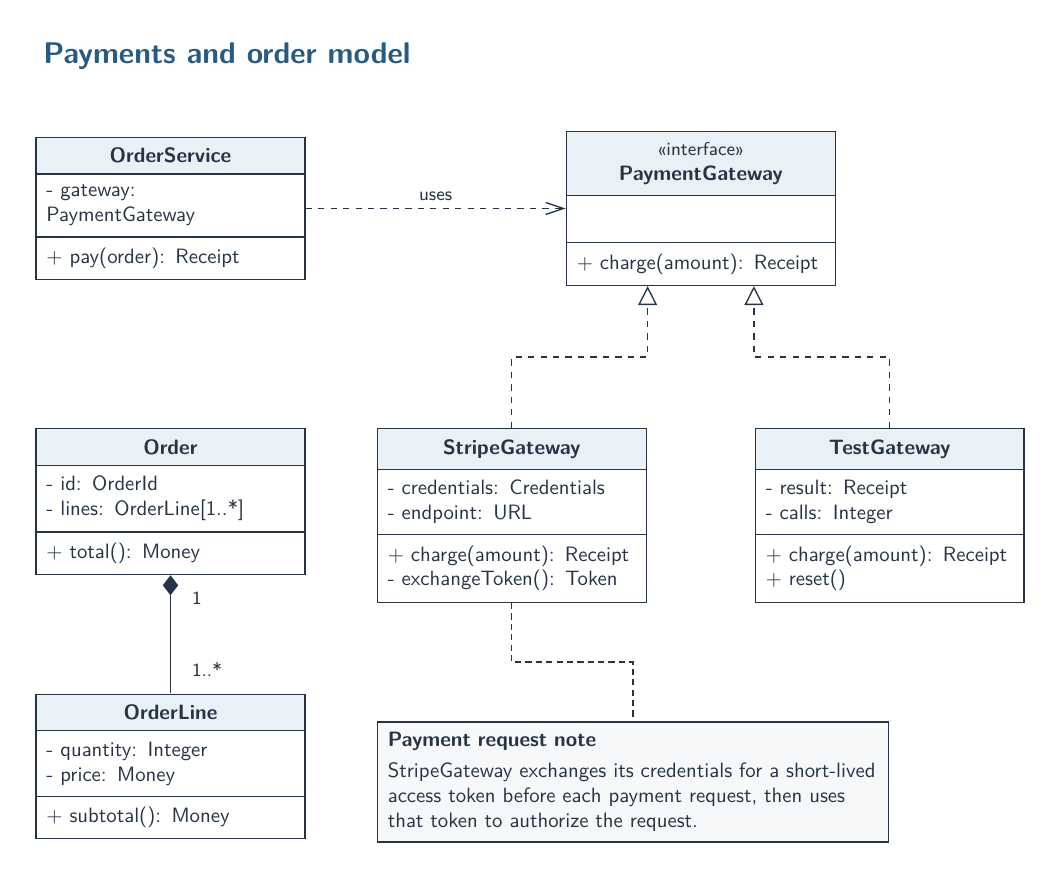
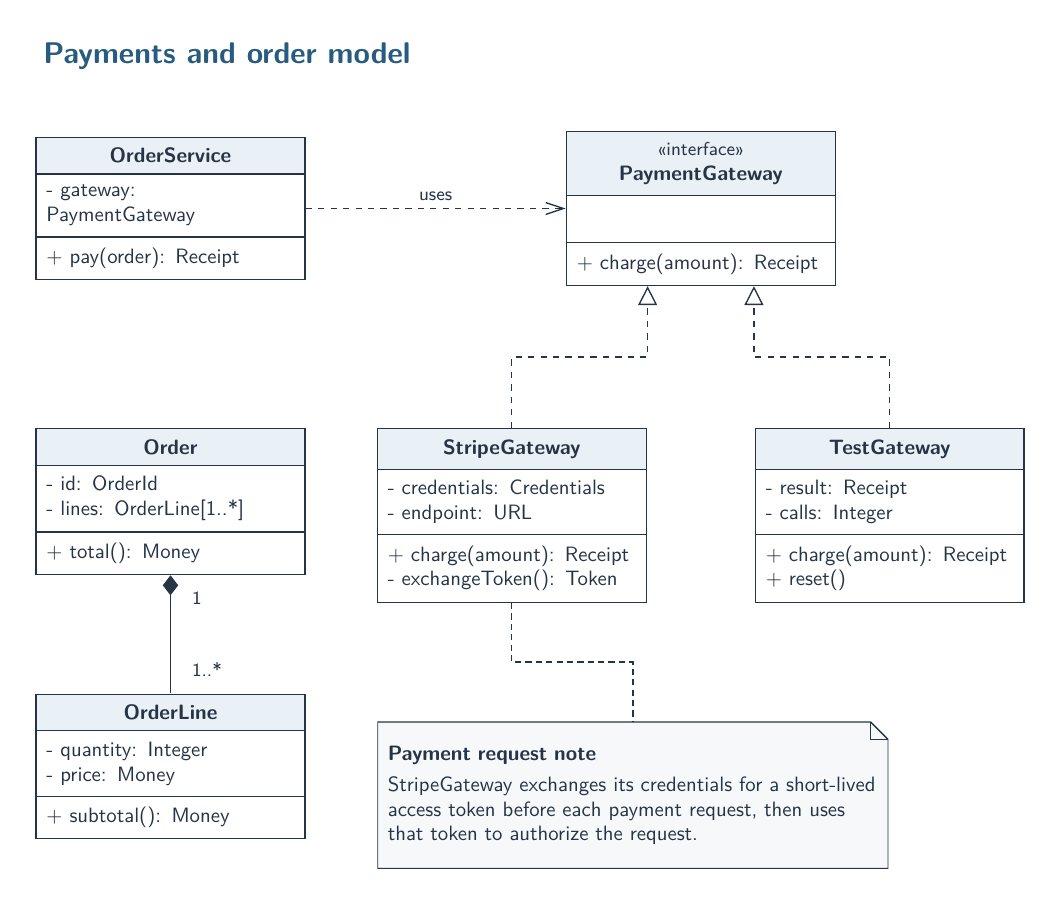
Add Vault writing style and common UML diagram guidance

diff --git a/skills/tikz-diagrams/assets/uml-class-template.tex b/skills/tikz-diagrams/assets/uml-class-template.tex
@@ -2,7 +2,7 @@
 \usepackage[T1]{fontenc}
 \usepackage{lmodern}
 \usepackage{tikz}
-\usetikzlibrary{arrows.meta,positioning,calc,shapes.multipart}
+\usetikzlibrary{arrows.meta,positioning,calc,shapes.multipart,shapes.geometric,fit,backgrounds}
 
 \definecolor{umlInk}{HTML}{263445}
 \definecolor{umlAccent}{HTML}{285B80}
@@ -19,7 +19,20 @@
     rectangle split part align={center,left,left},
     text width=42mm,align=center},
   uml/component/.style={uml/base,rectangle,fill=umlHeader,text width=42mm,align=center},
-  uml/note/.style={uml/base,rectangle,fill=umlNote,text width=83mm,align=left},
+  uml/note/.style={uml/base,rectangle,draw=none,fill=none,
+    text width=83mm,align=left,inner ysep=4mm,
+    path picture={
+      \path[draw=umlInk,fill=umlNote,line width=0.65pt]
+        (path picture bounding box.south west) --
+        (path picture bounding box.north west) --
+        ([xshift=-3mm]path picture bounding box.north east) --
+        ([yshift=-3mm]path picture bounding box.north east) --
+        (path picture bounding box.south east) -- cycle;
+      \draw[draw=umlInk,line width=0.65pt]
+        ([xshift=-3mm]path picture bounding box.north east) --
+        ([xshift=-3mm,yshift=-3mm]path picture bounding box.north east) --
+        ([yshift=-3mm]path picture bounding box.north east);
+    }},
   uml/label/.style={font=\sffamily\footnotesize,text=umlInk,
     inner sep=1.5pt,fill=white},
   uml/edge/.style={draw=umlInk,line width=0.65pt},
@@ -33,13 +46,54 @@
   uml/lifeline/.style={uml/edge,densely dashed},
   uml/call/.style={uml/edge,-{Triangle[length=3mm,width=2.2mm]}},
   uml/async/.style={uml/edge,-{Straight Barb[length=3mm,width=2mm]}},
-  uml/reply/.style={uml/edge,dashed,-{Straight Barb[length=3mm,width=2mm]}}
+  uml/reply/.style={uml/edge,dashed,-{Straight Barb[length=3mm,width=2mm]}},
+  uml/artifact/.style={uml/base,rectangle,fill=white,text width=32mm,align=center},
+  uml/frame/.style={uml/base,rectangle,fill=none,inner sep=7mm},
+  uml/port/.style={uml/base,rectangle,fill=white,minimum size=3mm,inner sep=0pt},
+  uml/interface/.style={uml/base,circle,fill=white,minimum size=4mm,inner sep=0pt},
+  uml/usecase/.style={uml/base,ellipse,fill=umlHeader,text width=32mm,align=center},
+  uml/action/.style={uml/base,rectangle,rounded corners=2mm,
+    fill=umlHeader,text width=32mm,align=center},
+  uml/state/.style={uml/base,rectangle,rounded corners=2mm,
+    fill=umlHeader,text width=32mm,align=center},
+  uml/decision/.style={uml/base,diamond,fill=white,aspect=1.4,
+    minimum size=8mm,inner sep=1pt},
+  uml/bar/.style={uml/base,rectangle,fill=umlInk,
+    minimum width=25mm,minimum height=1.8mm,inner sep=0pt},
+  uml/initial/.style={uml/base,circle,fill=umlInk,minimum size=4mm,inner sep=0pt},
+  uml/activity-final/.style={uml/base,circle,fill=white,minimum size=6mm,
+    inner sep=0pt,path picture={
+      \fill[umlInk] (path picture bounding box.center) circle[radius=1.6mm];}},
+  uml/flow-final/.style={uml/base,circle,fill=white,minimum size=6mm,
+    inner sep=0pt,path picture={
+      \draw[draw=umlInk,line width=0.65pt]
+        ([xshift=-1.7mm,yshift=-1.7mm]path picture bounding box.center) --
+        ([xshift=1.7mm,yshift=1.7mm]path picture bounding box.center)
+        ([xshift=-1.7mm,yshift=1.7mm]path picture bounding box.center) --
+        ([xshift=1.7mm,yshift=-1.7mm]path picture bounding box.center);}},
+  uml/lifeline-head/.style={uml/base,rectangle,fill=umlHeader,
+    text width=42mm,align=center},
+  uml/activation/.style={uml/base,rectangle,fill=umlHeader,
+    minimum width=3mm,minimum height=12mm,inner sep=0pt},
+  uml/control-flow/.style={uml/edge,-{Straight Barb[length=3mm,width=2mm]}},
+  uml/object-flow/.style={uml/control-flow},
+  uml/transition/.style={uml/control-flow},
+  pics/uml/actor/.style={code={
+    \draw[uml/edge,fill=white] (0,0.42) circle[radius=1.3mm];
+    \draw[uml/edge] (0,0.29) -- (0,-0.22)
+      (-0.28,0.14) -- (0.28,0.14)
+      (0,-0.22) -- (-0.24,-0.53) (0,-0.22) -- (0.24,-0.53);
+    \coordinate (-north) at (0,0.55);
+    \coordinate (-south) at (0,-0.53);
+    \coordinate (-west) at (-0.3,0);
+    \coordinate (-east) at (0.3,0);
+  }}
 }
 
 \begin{document}
 \begin{tikzpicture}
 \node[uml/class] (gateway) {
-  {\footnotesize\normalfont\sffamily\textless\textless interface\textgreater\textgreater}\\
+  {\footnotesize\normalfont\sffamily\guillemotleft interface\guillemotright}\\
   \textbf{PaymentGateway}
   \nodepart[align=left]{two}\strut
   \nodepart[align=left]{three}

diff --git a/skills/tikz-diagrams/SKILL.md b/skills/tikz-diagrams/SKILL.md
@@ -1,69 +1,55 @@
 ---
 name: tikz-diagrams
-description: Use when creating or editing UML-style or software architecture diagrams with LaTeX/TikZ, especially class, component, and sequence diagrams that need consistent styling, readable labels, and carefully checked spacing and connector routes.
+description: Use when creating or editing LaTeX/TikZ UML diagrams for Markdown documentation, including sequence, activity, state machine, class, component, deployment and use case diagrams, or related software architecture views.
 ---
 
 # TikZ Diagrams
 
-Create clear, consistent diagrams and verify the rendered result. Deliver editable
-TikZ source and a vector PDF when compilation is available. Follow the requested
-diagram type, level of detail, page size, and existing document style.
+Create diagram assets for Markdown: editable TikZ source plus a rendered SVG or PNG for embedding, and a vector PDF when compilation supports it. Preserve the requested diagram type, model, detail and final reading size. A diagram request does not require a prose LaTeX document.
 
-## Start with the meaning
+## Choose the UML view
 
-Identify the entities, relationships, arrow directions, labels, and multiplicities
-the diagram must show. Preserve supplied names and facts. Mark illustrative
-choices or unresolved relationships; do not invent ownership, cardinalities,
-failure policies, or security requirements to fill space.
+Support these seven common views. Choose one that answers the document's question:
 
-Choose formal UML notation when requested. For an informal architecture diagram,
-use the appropriate UML-inspired visual language without claiming full UML compliance.
+| Scenario or question | Diagram |
+|----------------------|---------|
+| Who calls whom, in what order, during one request or interaction? | **Sequence** |
+| What steps, decisions and parallel branches form a workflow? | Activity |
+| How does one entity change state in response to events? | State machine |
+| What types, fields, operations and structural relationships exist? | Class |
+| What subsystems, interfaces and dependencies form the software? | Component |
+| What runs where, across hosts and execution environments? | Deployment |
+| Which actors pursue which goals through the system? | Use case |
 
-## Reuse one visual style
+For an explicit supported type, use it. Otherwise select the best view and briefly state why. Sequence shows exchanges between participants; activity shows the process; state machine shows one entity's lifecycle. Component shows software organisation; deployment shows runtime placement. Use case shows goals, not execution order. Draw one focused view unless the request needs several; ask when the intended question is unclear. For a requested type outside this set, explain the supported scope and ask about a suitable supported view rather than silently substituting.
 
-Start from [the standalone template](assets/uml-class-template.tex) and its
-central `uml/` style block. Replace the example content with the requested model.
-Keep the same typography, palette, stroke widths, padding, and arrow sizes across
-related diagrams. Change shared styles when adapting a theme rather than styling
-every node independently. [The preview](assets/uml-class-preview.png) shows the
-default appearance.
+Consult the [notation table](references/uml-and-layout.md#diagram-types) for the selected view. Use formal UML notation for UML requests; label informal architecture views as informal.
 
-Use aligned rows or columns, consistent box widths, muted fills, and clear dark
-text. The template uses a 10pt body and 9pt labels at natural size. Keep text
-readable at the final embedding size; reflow or simplify the diagram before
-shrinking it. Use shape and line conventions as well as colour to convey meaning.
+Identify supplied entities, relationships, direction, multiplicity, message order, guards and timing. Preserve names and facts. Mark illustrative choices or unresolved relationships; ask when missing semantics affect correctness. Do not infer ownership from pointer types or invent timing, cardinalities or failure policies.
 
-## Lay out boxes, then routes
+## Reuse the canonical theme
 
-1. Set the intended canvas and reading direction. Place the main nodes using
-   positioning relative to their borders or named row/column coordinates.
-2. Reserve whitespace for notes, labels, arrowheads, and routing corridors.
-   Start with 12–20mm horizontal gaps and 20–26mm between class rows; adjust to
-   actual rendered content. Long boxes need larger gaps or a different arrangement.
-3. Set text widths and deliberate line breaks. Keep identifiers intact; break a
-   long field or signature at meaningful boundaries. For rectangle-split classes,
-   use the `two` and `three` compartments, not `second` and `third`.
-4. Connect explicit border anchors through clear lanes and named waypoints.
-   Place labels on a chosen straight segment and multiplicities beside the
-   correct endpoints. Keep routes clear of unrelated boxes and annotations.
+The shared preamble and `uml/` style block in [the template](assets/uml-class-template.tex) are the canonical visual source for every type. Copy those definitions into a self-contained diagram, then replace the class-example body with the requested view's appropriate glyphs. [The preview](assets/uml-class-preview.png) shows the theme.
 
-Relative positioning and `-|`/`|-` bends do not provide automatic collision
-avoidance. Read [UML and layout details](references/uml-and-layout.md) for arrow
-semantics, components, sequences, grouping, and crowded layouts.
+Keep its blue/grey palette, sans-serif typography, 0.65 pt strokes, padding and arrow proportions consistent across diagrams. Use the existing class, component, action, state, actor, lifeline, interface, frame and final-node primitives. Deployment cube faces and sequence frame headings use normal TikZ geometry with the same styles. Correct UML notation takes precedence over making every symbol look like a class box.
 
-## Compile, inspect, revise
+The default body is 10pt and labels 9pt at natural size. Reflow or simplify before shrinking text; check the final Markdown embedding width. The theme is a local visual convention, not an OMG-mandated colour scheme.
 
-Use the available LaTeX compiler and preview, or the reference's command-line
-workflow. Check errors, missing glyphs, and overfull boxes, then render the PDF.
-Inspect the entire diagram at its intended reading size and enlarge dense areas.
+## Place symbols, then route connectors
 
-Check node and note separation; complete compartment text; intact identifiers;
-label collisions; arrowheads and multiplicity placement; paths through unrelated
-boxes, including paths hidden behind fills; and page margins or clipping.
-Correct defects in the source, then compile and inspect the latest render again.
-Compilation success alone is not a layout check.
+1. Set canvas, reading direction and meaningful event/time order. Align related nodes and reserve lanes for routes, notes and labels.
+2. Set widths and deliberate line breaks. Use border-relative positioning and size the next row from actual content. Start with 12–20mm horizontal gaps and 20–26mm between class rows, then adjust.
+3. Use the relationship and flow styles for their actual meaning. Keep open activity-flow heads, final symbols, lifeline headings and message arrowheads distinct. Distinguish standard UML keywords from defined stereotypes; use plain explanatory text for other connector labels.
+4. Connect explicit anchors through clear waypoints. Place labels on straight segments and multiplicities beside the endpoints they count. Check self-calls, nested frames, group boundaries and underlying paths.
 
-Deliver only after this visual check finds no unintended overlaps. Report the
-checks actually performed. If compilation or visual inspection is unavailable,
-preserve the source and provide verification instructions; label the layout
-unverified and do not claim it is overlap-free.
+TikZ bends and positioning do not automatically avoid collisions. [The reference](references/uml-and-layout.md) covers compartments, groups, arrows and type-specific geometry.
+
+## Compile, inspect, deliver
+
+Prefer an available native LaTeX source editor/compiler for standalone diagram editing and diagnostics. Use the existing [command-line workflow](references/uml-and-layout.md#portable-build-and-visual-check) when rendered asset files are needed and native export is unavailable. Native standalone compilation needs a self-contained source. Installing a toolchain is outside an ordinary diagram request.
+
+Check compilation diagnostics, missing glyphs and overfull boxes. Render and inspect the entire diagram at its intended size, then enlarge dense areas. Verify notation, arrowheads, complete text, labels, borders, connectors and clipping. Correct the source and re-render after changes; compilation alone is not a layout check.
+
+In Vault, follow its guide: keep feature assets in `features/assets/<feature-id>/`, task-only assets in that task's `assets/`, and existing media at their current paths. Embed the SVG/PNG using a relative Markdown image link and retain the `.tex` source beside it. Do not turn the Markdown document into a LaTeX report.
+
+Report source and preview paths, actual compile/render checks and limitations. If compilation, export or inspection is unavailable, preserve the source and label the missing scope unverified rather than claiming a checked image.

diff --git a/skills/tikz-diagrams/references/uml-and-layout.md b/skills/tikz-diagrams/references/uml-and-layout.md
@@ -1,8 +1,38 @@
 # UML notation and TikZ layout
 
-Use the template's common `uml/` styles. Preserve the requested model and its
-semantics while adapting the layout. These are practical defaults, not a complete
-UML specification or a guarantee of automatic layout.
+Reuse the shared preamble and `uml/` styles in the template for every diagram type. Copy them into self-contained generated assets. Preserve model semantics while adapting layout; these practical defaults do not replace the UML specification or provide automatic layout.
+
+## Diagram types
+
+These are the supported UML views for ordinary software documentation. The skill's scenario table selects the view; this table specifies its notation. Consult UML 2.5.1 for specialised constructs within these views.
+
+| Type | Required distinction and canonical primitives |
+|------|-----------------------------------------------|
+| Sequence | Lifelines, ordered messages, executions and fragments; `uml/lifeline-head`, `uml/lifeline`, call/reply styles, `uml/activation`, frame geometry. |
+| Activity | Actions, flows, decisions, concurrency and finals; `uml/action`, `uml/control-flow`, `uml/decision`, `uml/bar`, final styles. |
+| State machine | States and event-driven transitions; `uml/state`, `uml/transition`, initial/final nodes. |
+| Class | Classifiers, compartments and typed relationships; `uml/class`. |
+| Component | Components and their interfaces/dependencies; `uml/component` with the component keyword or icon. |
+| Deployment | Perspective node cubes, artifacts and deployment; themed edges and `uml/artifact`. |
+| Use case | Actor roles, named ellipses and subject boundary; `uml/actor` pic, `uml/usecase`, `uml/frame`. |
+
+Source: [OMG UML 2.5.1](https://www.omg.org/spec/UML/2.5.1/PDF).
+
+## Deployment
+
+Deployment nodes are perspective cubes, labelled with the applicable device or execution-environment keyword. Artifacts can be keyword-labelled rectangles or document icons. Nest them within their deployment target, or draw an explicit dashed/open deploy dependency from artifact to target. Communication paths between nodes are solid associations; a manifest dependency points from artifact to its manifested classifier/component.
+
+Source: UML 2.5.1 §§19.2.4–19.4.4.
+
+## Use cases, activities and state machines
+
+Use an actor stick figure (`\pic (user) {uml/actor};`) or actor-keyword rectangle. The pic exposes `user-north`, `user-south`, `user-east` and `user-west` coordinates; position its text label separately. Use-case names belong inside ellipses. Actor associations are solid; include points from base to included use case, and extend from extending to extended use case, both dashed/open with their keywords. These relationships do not express execution order.
+
+Activities use rounded actions, rectangular object nodes/pins, decision/merge diamonds and fork/join bars. `uml/control-flow` and `uml/object-flow` have solid open heads. Label decision guards `[condition]`; decisions select alternatives while forks create concurrent flows. `uml/initial` is a filled circle; `uml/activity-final` is a bull's-eye stopping all flows; `uml/flow-final` is a circled X terminating only that flow.
+
+State-machine transitions use `trigger [guard] / effect`; rounded state nodes may have entry/do/exit behaviour. A final bull's-eye completes its enclosing region. Nested states and dashed region dividers express hierarchy and concurrency. An initial node, state and activity action may share visual primitives but retain different semantics.
+
+Sources: UML 2.5.1 §§14.2.4, 15.2.4–15.3.4 and 18.1.4.
 
 ## Relationship direction and meaning
 
@@ -14,7 +44,9 @@ UML specification or a guarantee of automatic layout.
 | Interface realization | `uml/realization` | Dashed line and hollow triangle, from implementation to interface. |
 | Shared aggregation | `uml/aggregation` | Hollow diamond at the whole end; use only when that relationship is intended. |
 | Composition | `uml/composition` | Filled diamond at the whole end; composition expresses stronger whole/part semantics. |
-| Annotation | `uml/note-link` | Dashed connector without an arrowhead; does not create a model relationship. |
+| Annotation | `uml/note-link` | Dashed connector without an arrowhead; formal comments use the folded-corner `uml/note`. |
+| Activity control/object flow | `uml/control-flow` / `uml/object-flow` | Solid open-head flow with the supplied guard/token meaning. |
+| State transition | `uml/transition` | Solid open head; label with trigger, guard and effect when supplied. |
 
 The template's aggregation and composition styles put the diamond at the start
 of the path: draw from the whole toward the part. Draw generalizations and
@@ -78,20 +110,24 @@ Sources: [Positioning and labels](https://tikz.dev/tikz-shapes),
 [path bends](https://tikz.dev/tikz-paths), [fit](https://tikz.dev/library-fit),
 and [background layers](https://tikz.dev/library-backgrounds).
 
-## Components and sequences
+## Components
 
-For components, use `uml/component` with a visible component stereotype or correct
-UML notation; do not invent an icon that suggests a different kind of entity.
+For components, use `uml/component` with a visible component keyword or correct
+UML icon; do not invent an icon that suggests a different kind of entity.
 Use the same typography, colours, padding, and relationship conventions as the
 class diagrams. An informal block diagram should be identified as such.
 
-For sequences, align participant headers and use `uml/lifeline` for vertical
+The interface and component labels are UML keywords, not profile stereotypes. Use T1 guillemets (`\guillemotleft` / `\guillemotright`) around keywords and stereotype names.
+
+## Sequence diagrams
+
+Use `uml/lifeline-head` for participant headers and `uml/lifeline` for vertical
 lifelines. Allocate increasing event rows and space for each message label.
 Use `uml/call` for synchronous calls and `uml/async` for asynchronous calls.
 The template convention is `uml/reply` for dashed, open-barb replies; label
 messages and keep self-calls and activation bars clear of neighbouring lifelines.
 
-Sequence time flows downward. Preserve requested call order and distinguish
+Sequence time flows downward. Use the UML pentagonal heading tab for the outer `sd` frame and combined fragments; preserve supplied fragment operators and guards. Preserve requested call order and distinguish
 simultaneous or asynchronous behaviour from a synchronous call. For formal UML,
 use its actual notation for combined fragments and activation bars rather than
 implying those meanings through arbitrary boxes or colours.
@@ -115,7 +151,7 @@ pdftoppm -png -r 150 -singlefile build/diagram.pdf build/diagram
 
 An existing editor/preview or a compatible LaTeX engine can provide the same
 compile-and-inspect loop. Do not enable shell escape for the supplied template.
-Keep build outputs separate from source. Re-render after source changes and
+Keep intermediate build files separate from source. Retain a chosen SVG/PNG preview beside the editable source for Markdown embedding, plus the vector PDF when useful. Existing PDF-to-SVG or PDF-to-PNG tools can provide the preview; no prose LaTeX report is needed. Re-render after source changes and
 inspect the actual latest image; warnings alone cannot detect hyphenated names,
 incorrect arrow semantics, or overlapping annotations.
 

diff --git a/skills/vault-doc-style/SKILL.md b/skills/vault-doc-style/SKILL.md
@@ -1,0 +1,26 @@
+---
+name: vault-doc-style
+description: Use when drafting, revising, or reviewing project documents in Vault, or when the user requests Vault's documentation style. Applies to document prose rather than code identifiers or quoted source text.
+---
+
+# Vault Documentation Style
+
+Write simple, formal British English that preserves the document's facts and makes its purpose clear.
+
+For work in Vault, read its `AGENTS.md` and `projects/vault/guides/markdown-style.md`. Resolve these from the supplied repository or document location. The guide owns the detailed preferences; the core rules below also work when that guide is unavailable. Do not claim to have read an unavailable guide.
+
+## Apply the style
+
+- Lead with the purpose, outcome or proposed change. Use concrete nouns, active verbs and consistent terms.
+- Use concise paragraphs for connected explanations: the need, approach, implications and relevant next action. Retain technical detail required by a specification, reference or procedure.
+- Use bullets for distinct requirements or actions, numbered steps for ordered work, and tables for comparisons. Add headings only when they help navigation.
+- Remove filler, repetition, promotional claims, stock AI phrasing and conclusions that merely repeat the document.
+- Preserve conditions, uncertainty, source attribution, evidence scope and material limitations. An accepted design is still unimplemented until implementation is evidenced; record verification separately.
+
+## Revise the existing document
+
+Read the surrounding text and update the appropriate maintained document in place. Keep frontmatter, code, quotations, identifiers, links and historical completion checkpoints unchanged unless the request targets them. Correct historical facts with a dated amendment that retains the original account.
+
+Keep images and editable diagram sources at their existing paths. For new assets, follow Vault's guide and use relative links. A prose edit does not require creating a new document, directory, diagram or template.
+
+Before delivery, compare the revised account with the source for lost meaning, changed status or broken references. Run applicable existing document checks when editing repository files, and report only checks actually performed.

diff --git a/README.md b/README.md
@@ -11,7 +11,8 @@ provider-neutral; the files under [home/](home/) adapt it to local agent paths.
 - [Canon TDD](skills/canon-tdd/SKILL.md): scenario-driven test-first development.
 - [Writing Style](skills/writing-style/SKILL.md): clear, direct prose that preserves meaning.
 - [Document Writing](skills/doc-writing/SKILL.md): high-level explanations with a clear narrative and the detail the reader needs.
-- [TikZ Diagrams](skills/tikz-diagrams/SKILL.md): consistent UML-style diagrams with checked spacing, labels, and connector routes.
+- [TikZ Diagrams](skills/tikz-diagrams/SKILL.md): seven common UML views, scenario-based selection and one canonical theme, with editable TikZ sources and rendered Markdown previews.
+- [Vault Documentation Style](skills/vault-doc-style/SKILL.md): Vault's formal, concise documentation style, with metadata, change states and historical records preserved.
 
 ## What chezmoi manages
 
